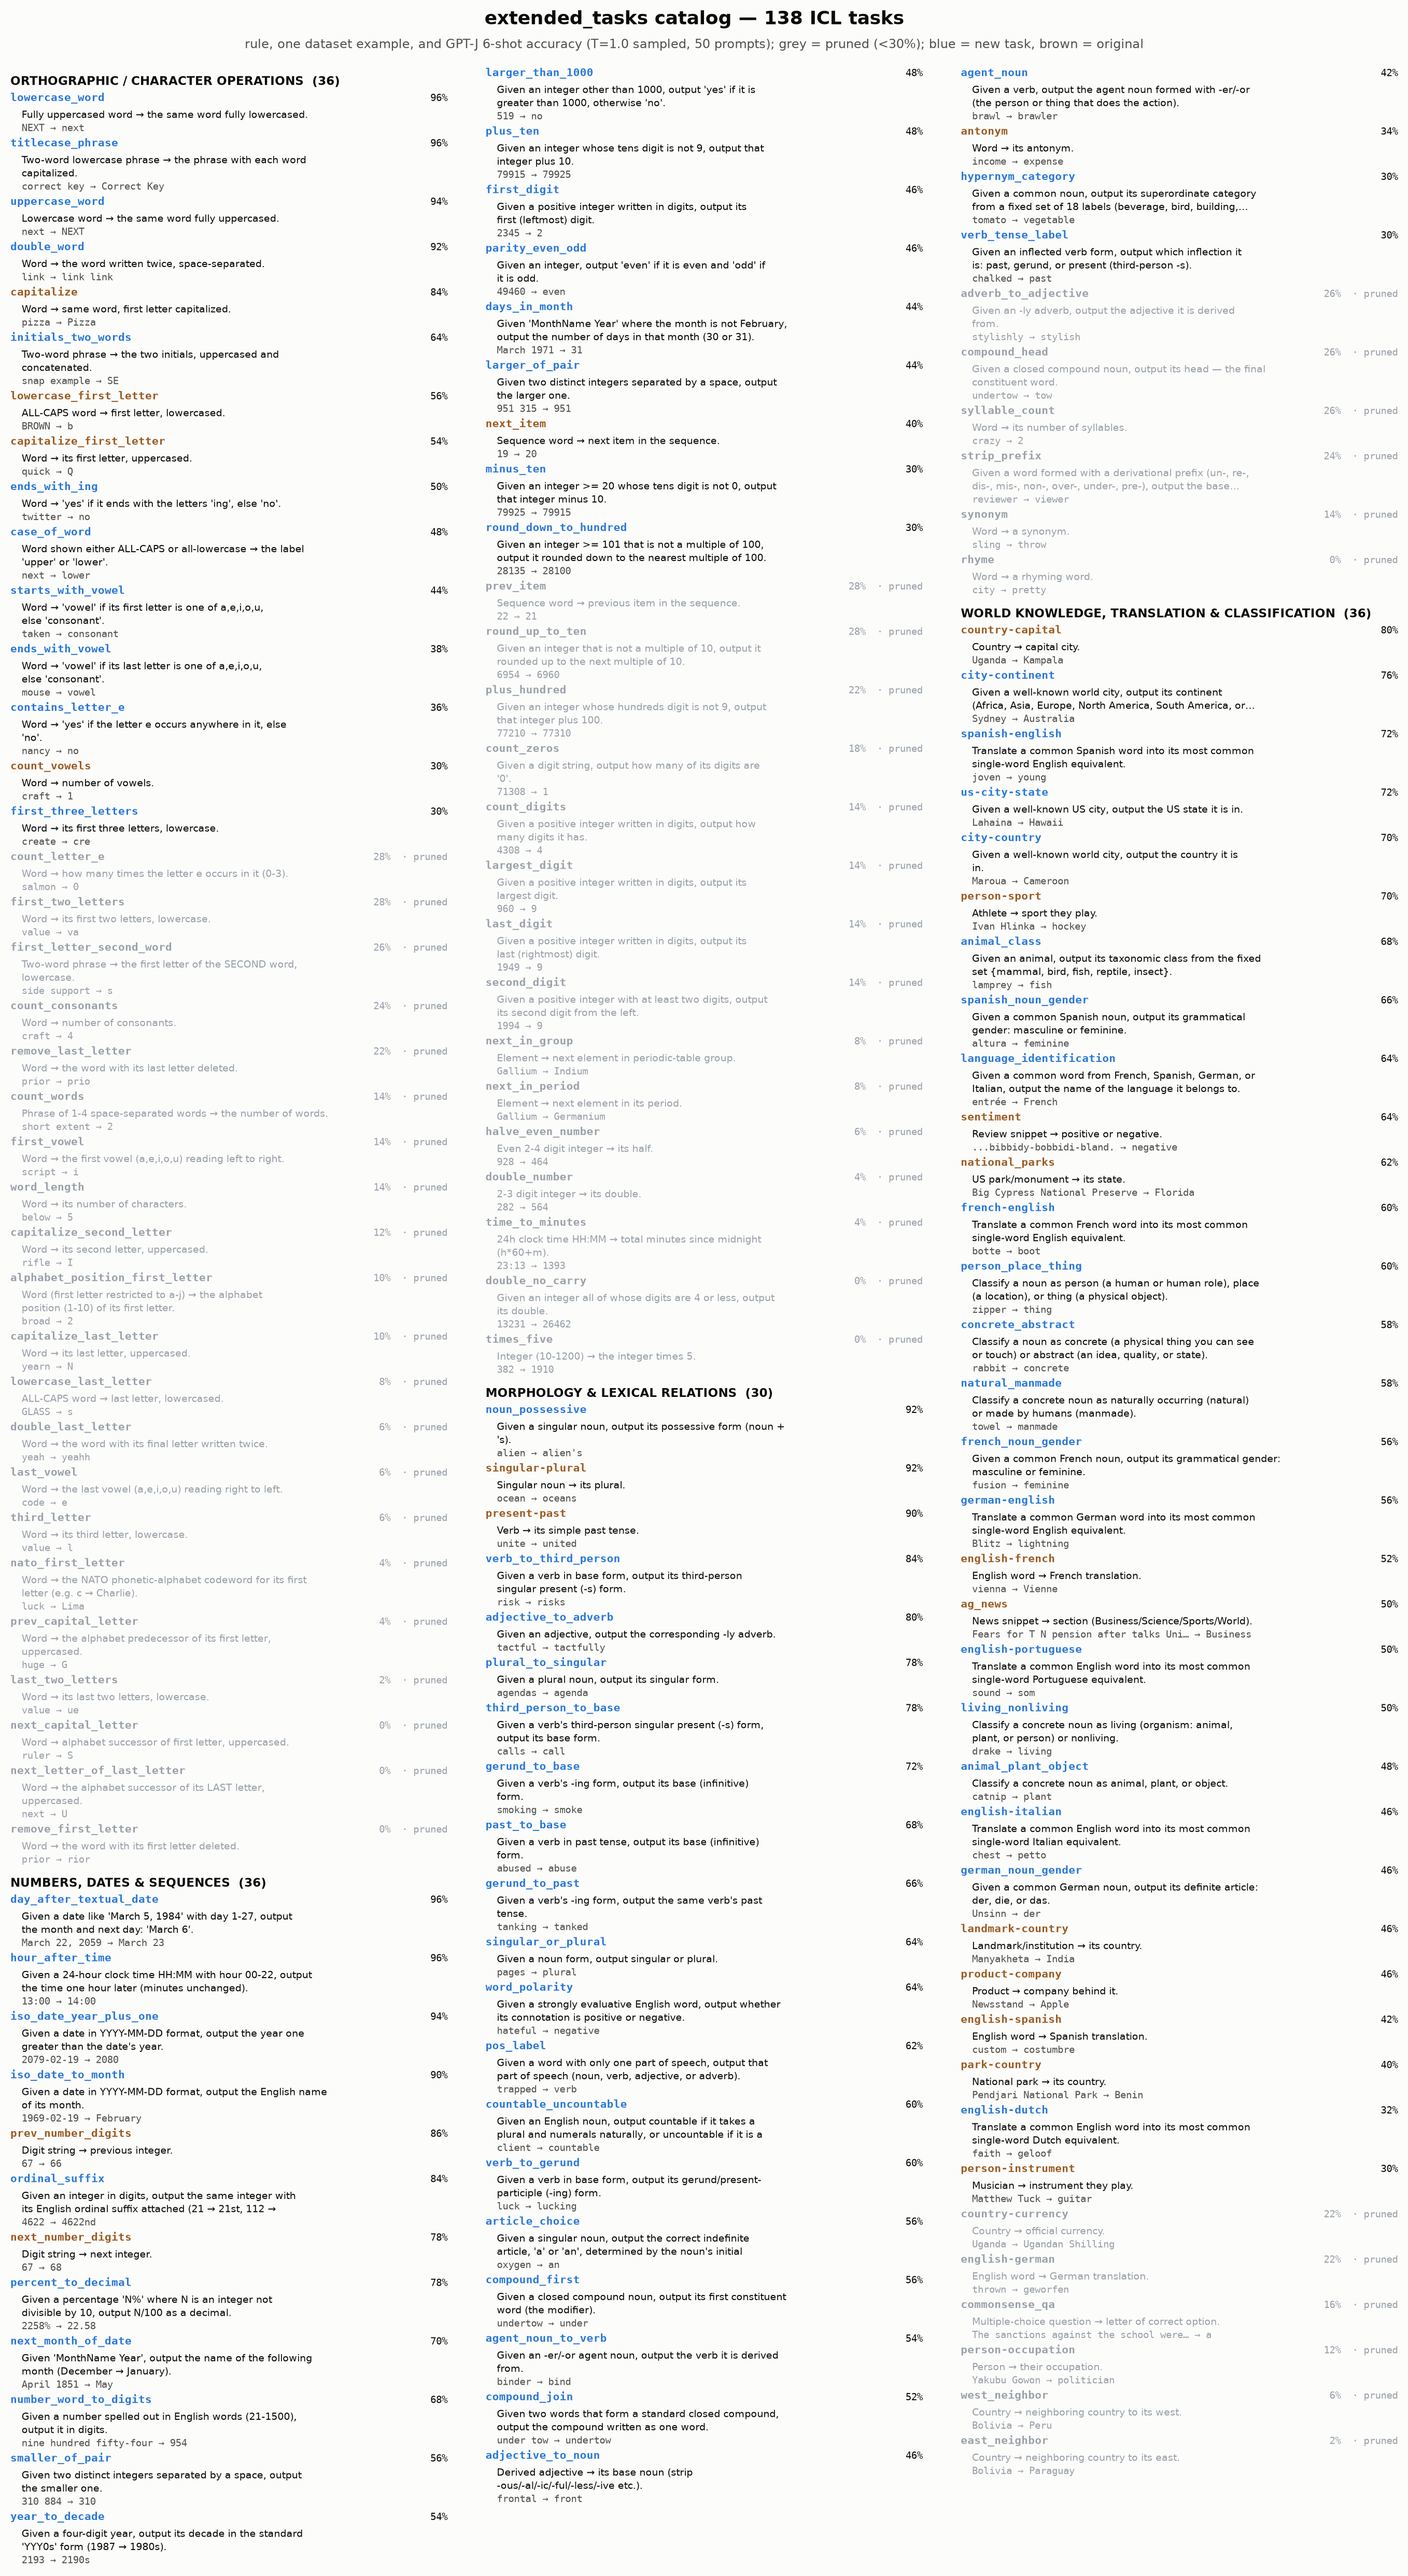
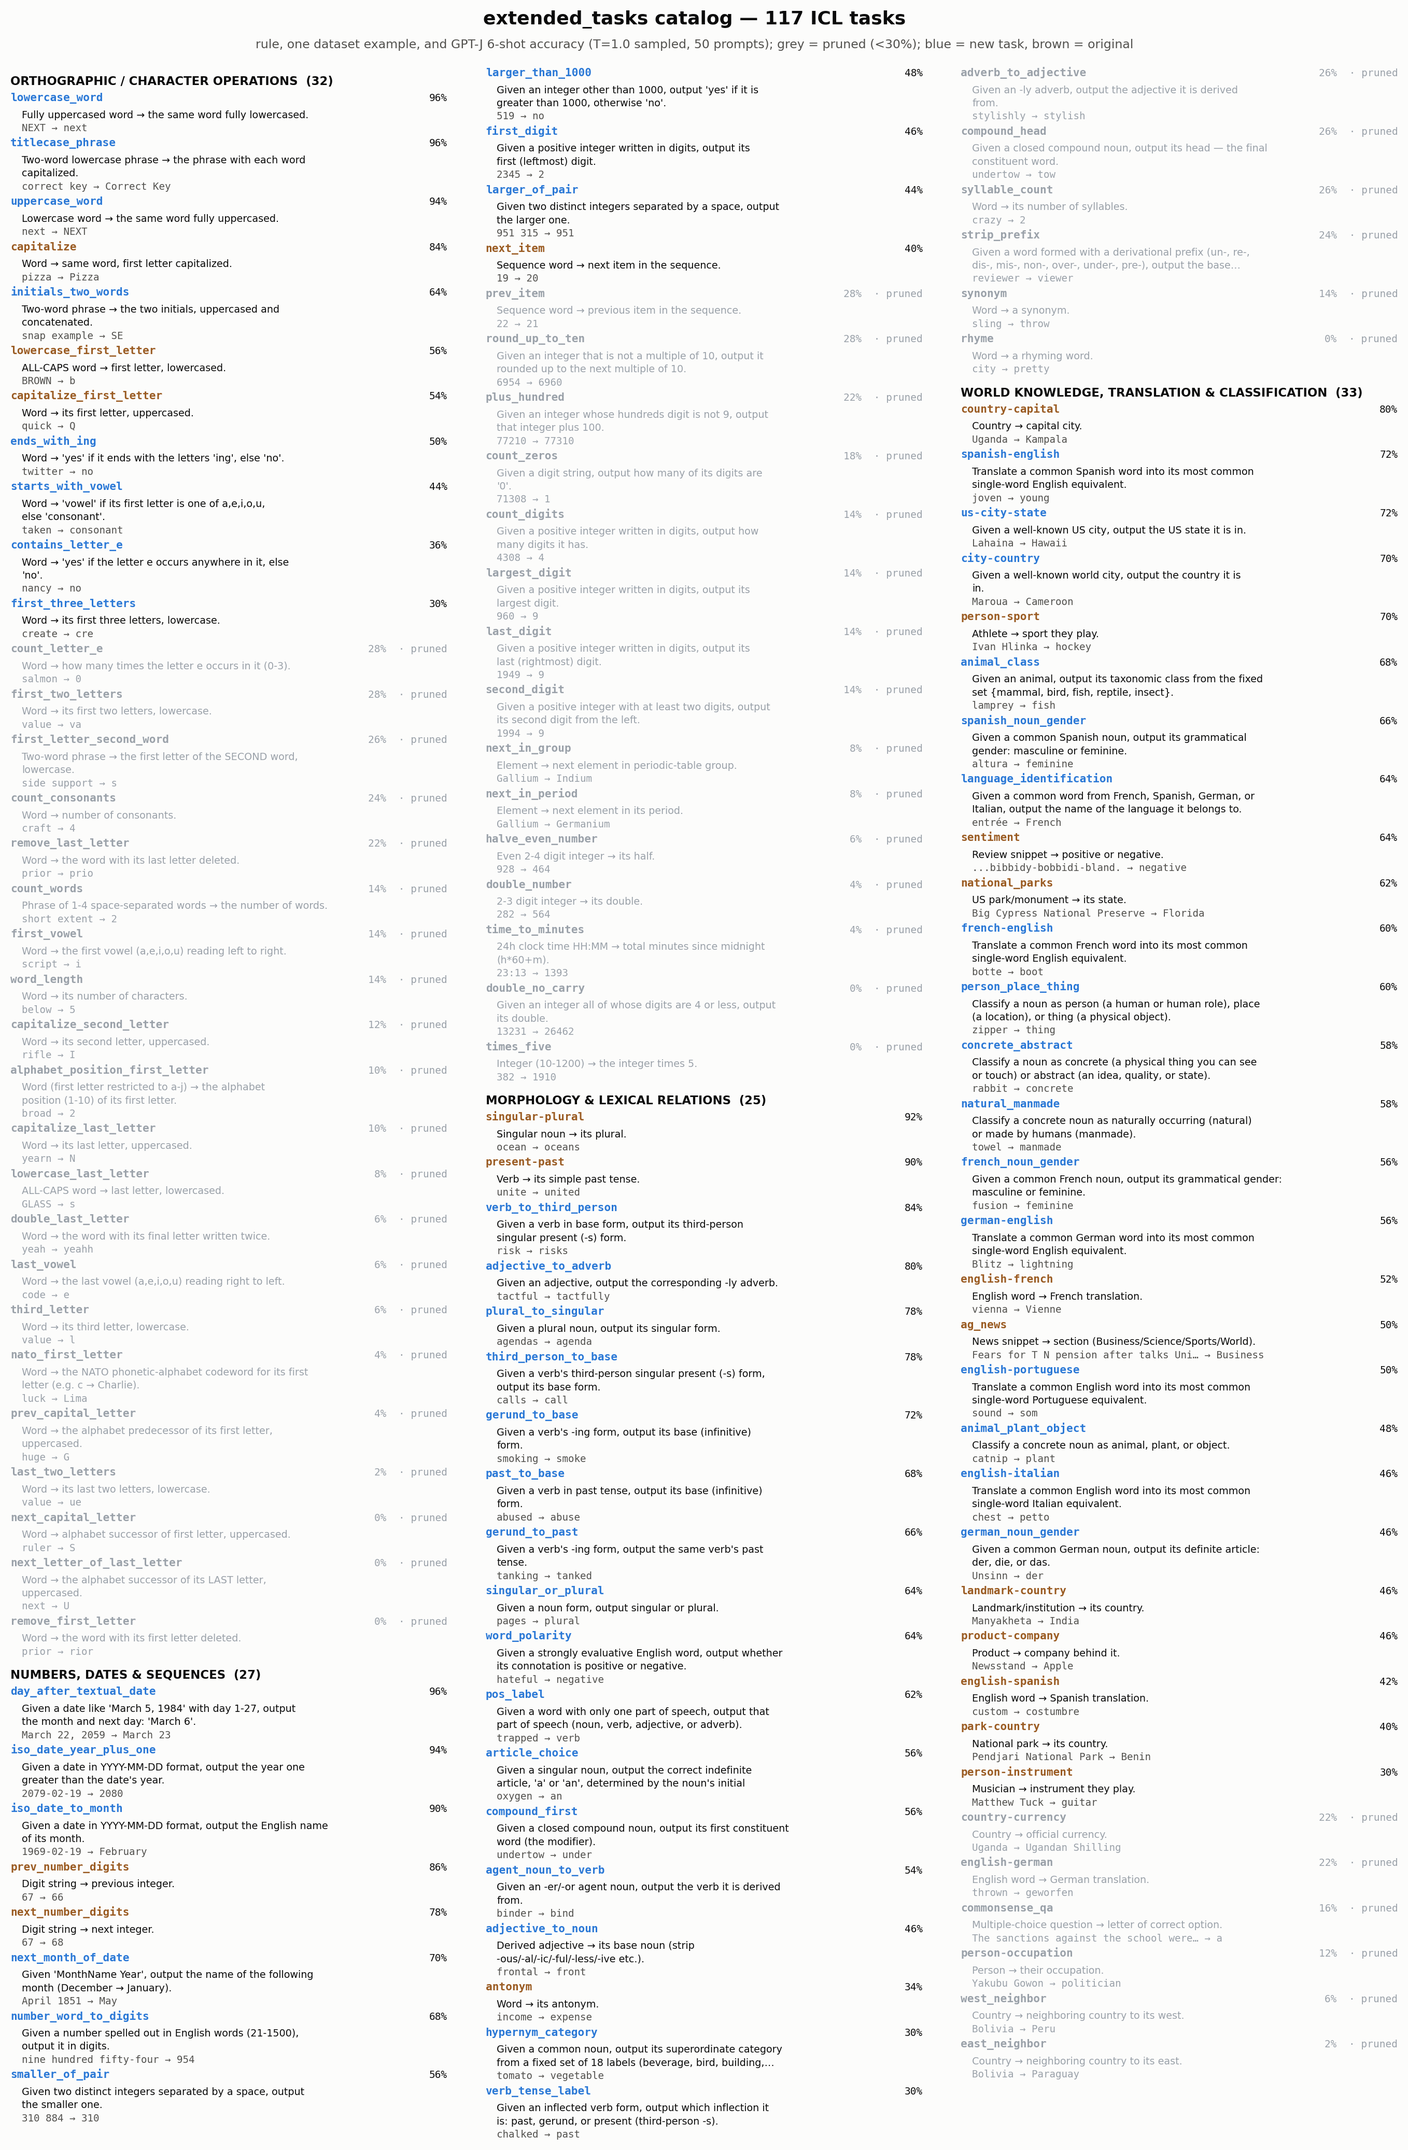
Regenerate canonical nshot bar + task catalog on the 117-task pool (manifest-filtered)

diff --git a/src/eval_scripts/plot_extended_nshot_bar.py b/src/eval_scripts/plot_extended_nshot_bar.py
@@ -32,8 +32,11 @@ def main():
     args = ap.parse_args()
 
     root = GENERAL_DIR / "extended_tasks_nshot_sweep"
+    # the manifest defines the working pool (tasks moved to subfolders are excluded)
+    import json
+    pool = json.load(open(REPO_ROOT / "dataset_files" / "extended_tasks" / "manifest.json"))["tasks"]
     rows = [r for r in csv.DictReader(open(root / "nshot_accuracy.csv"))
-            if int(r["n_shots"]) == args.n]
+            if int(r["n_shots"]) == args.n and r["task"] in pool]
     assert rows, f"no rows for n={args.n}"
     rows.sort(key=lambda r: float(r["accuracy"]))
     tasks = [r["task"] for r in rows]

diff --git a/src/eval_scripts/plot_extended_tasks_catalog.py b/src/eval_scripts/plot_extended_tasks_catalog.py
@@ -152,7 +152,7 @@ def main():
     fig_h = col_lines * LINE_IN + 1.1
     fig_w = 13.6
     fig = plt.figure(figsize=(fig_w, fig_h), facecolor="#fcfcfb")
-    fig.text(0.5, 1 - 0.25 / fig_h, "extended_tasks catalog — 138 ICL tasks", ha="center",
+    fig.text(0.5, 1 - 0.25 / fig_h, f"extended_tasks catalog — {len(entries)} ICL tasks", ha="center",
              fontsize=13, fontweight="bold", color=INK)
     fig.text(0.5, 1 - 0.48 / fig_h,
              "rule, one dataset example, and GPT-J 6-shot accuracy (T=1.0 sampled, 50 prompts); "
